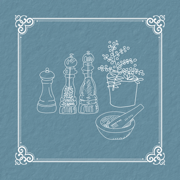
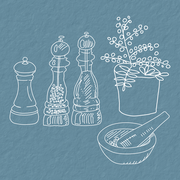
Add files via upload

Changed region(s): [[0.0278, 0.0833, 0.9444, 0.9167]]

diff --git a/sw.js b/sw.js
@@ -1,7 +1,7 @@
 /* Lets the book open without internet in the kitchen.
    App files: network first, so an update you upload shows up right away; the saved copy is the fallback.
    Fonts: saved copy first -- those never change. */
-const APP_CACHE = 'bb-app-v88';
+const APP_CACHE = 'bb-app-v89';
 const APP_FILES = [
   './', 'index.html', 'styles.css', 'app.js', 'scale.js', 'store.js', 'cloud.js', 'firebase-config.js', 'ink.js', 'stickers.js', 'cook.js', 'manifest.json', 'icon-192.png', 'apple-touch-icon.png',
   'data/book.js', 'data/sides.js', 'data/soups.js', 'data/entrees.js', 'data/desserts.js', 'data/drinks.js', 'data/holiday.js',
